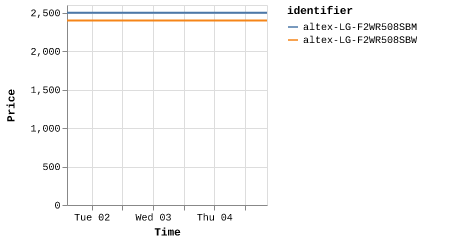
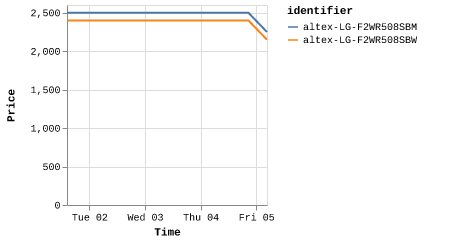
Latest scraping spalat: Fri Jan  5 04:39:24 UTC 2024

diff --git a/scrapes/spalat/altex-LG-F2WR508SBM.md b/scrapes/spalat/altex-LG-F2WR508SBM.md
@@ -1,3 +1,3 @@
-2499
+2249
 
 [Source](https://altex.ro/masina-de-spalat-rufe-frontala-slim-lg-f2wr508sbm-steam-8-kg-1200rpm-clasa-a-negru/cpd/MSFF2WR508SBM/)

diff --git a/scrapes/spalat/altex-LG-F2WR508SBW.md b/scrapes/spalat/altex-LG-F2WR508SBW.md
@@ -1,3 +1,3 @@
-2399
+2149
 
 [Source](https://altex.ro/masina-de-spalat-rufe-frontala-slim-lg-f2wr508sbw-steam-8-kg-1200rpm-clasa-a-alb/cpd/MSFF2WR508SBW/)
